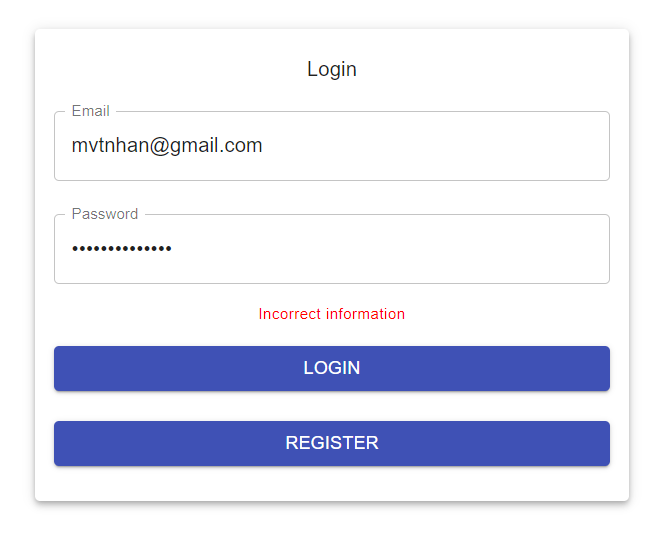
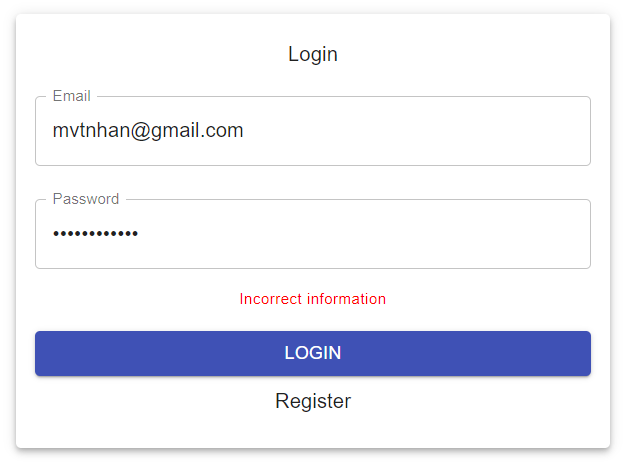
edit button

diff --git a/src/RegisterFormik.js b/src/RegisterFormik.js
@@ -132,7 +132,7 @@ function RegisterFormik() {
                         <TextField
                           id="date"
                           variant="outlined"
-                          label="Birth Day"
+                          label="BirthDay"
                           type="date"
                           InputLabelProps={{
                             shrink: true,
@@ -202,7 +202,7 @@ function RegisterFormik() {
                     <Field name="phoneNumber">
                       {({ field }) => (
                         <StyledPhoneInput
-                          placeholder="Enter phone number"
+                          placeholder="Enter Phone Number"
                           international
                           name="phoneNumber"
                           value={values.phoneNumber}
@@ -294,11 +294,14 @@ function RegisterFormik() {
                     </Button>
                   </FormControl>
 
-                  <FormControl fullWidth margin="normal">
-                    <Button variant="contained" color="primary" href="/">
-                      Login
-                    </Button>
-                  </FormControl>
+                  <StyledTypography
+                    gutterBottom
+                    onClick={() => {
+                      history.push("/");
+                    }}
+                  >
+                    <a>Login</a>
+                  </StyledTypography>
                 </StyledPaper>
               </Grid>
             </Grid>

diff --git a/src/LoginFormik.js b/src/LoginFormik.js
@@ -101,11 +101,14 @@ const LoginFomik = () => {
                     Login
                   </Button>
                 </FormControl>
-                <FormControl fullWidth margin="normal">
-                  <Button variant="contained" color="primary" href="/register">
-                    Register
-                  </Button>
-                </FormControl>
+                <StyledTypography
+                  gutterBottom
+                  onClick={() => {
+                    history.push("/register");
+                  }}
+                >
+                  <a>Register</a>
+                </StyledTypography>
               </StyledPaper>
             </Grid>
           </Form>

diff --git a/src/Styled.js b/src/Styled.js
@@ -10,6 +10,12 @@ export const StyledPaper = styled(Paper)`
 
 export const StyledTypography = styled(Typography)`
   text-align: center;
+  & a {
+    cursor: pointer;
+    &:hover {
+      color: blue;
+    }
+  }
 `;
 
 export const StyledFormHelperText = styled(FormHelperText)`
